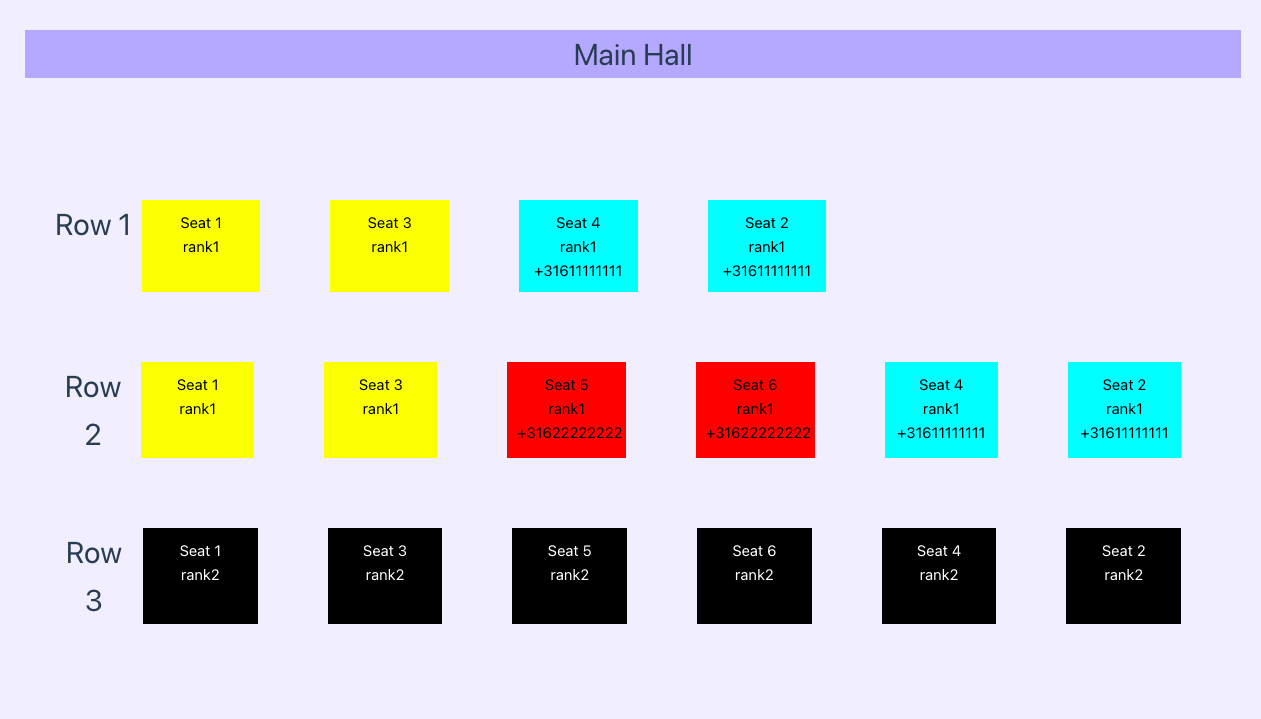
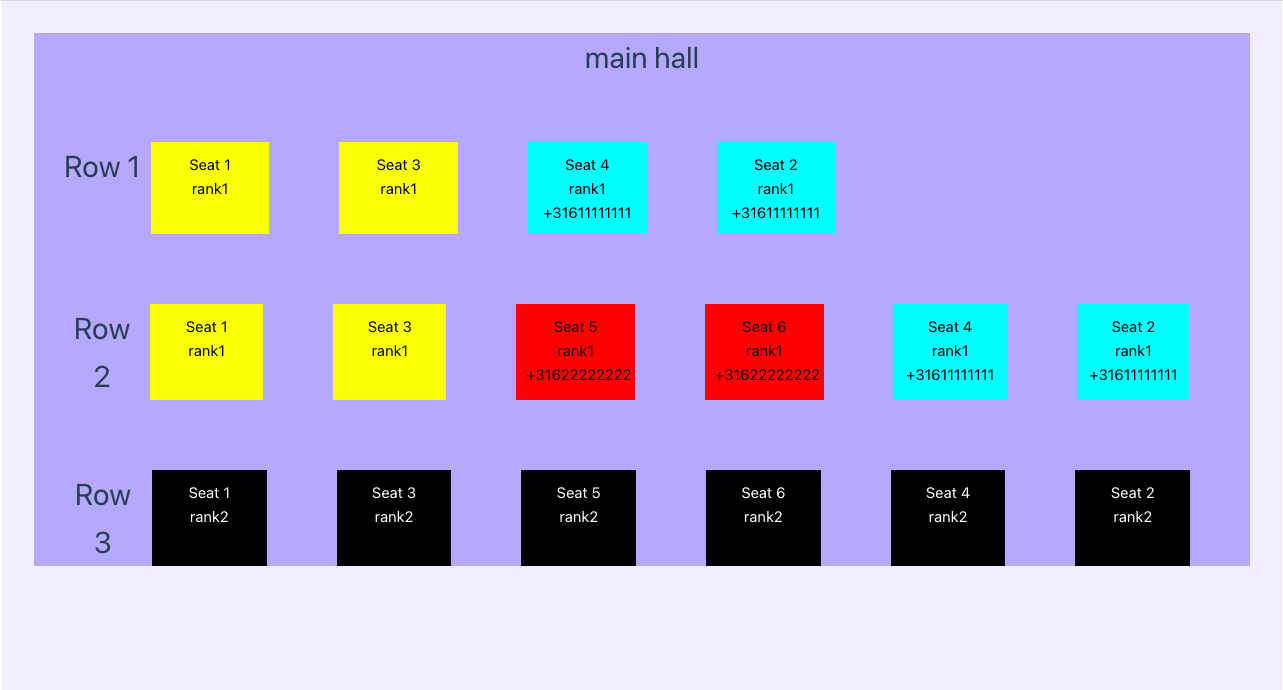
Readme commit

diff --git a/src/App.vue b/src/App.vue
@@ -132,7 +132,7 @@ const seatStatus = (seatTaken) => {
   <main>
     <div>
       <div class="header" v-for="{ name, rows } in checkSection">
-        <h1>{{ name }}</h1>
+        <h1 class="headerTitle">{{ name }}</h1>
         <div class="row" v-for="{ row, seats } in rows">
           <h1>Row {{ row }}</h1>
           <div
@@ -165,6 +165,10 @@ const seatStatus = (seatTaken) => {
   text-align: center;
   margin-bottom: 10%;
   background-color: rgb(176, 176, 255);
+}
+
+.headerTitle {
+  margin-bottom: 5%;
 }
 .row {
   display: flex;
